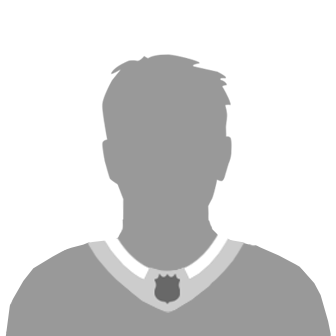
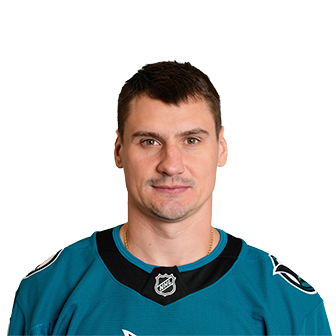
Update Sharks roster: add Sherwood, remove departed players, refresh headshots
- Add Kiefer Sherwood (#44, LW) to SHARKS_ROSTER with full player comps
  (acquired from Vancouver Jan 19, 2026)
- Add Collin Graf (#51) and Pavol Regenda (#84) to roster
- Remove 14 departed players: Granlund, Zetterlund, Ceci, Walman,
  Blackwood, Vanecek, Grundstrom, Sturm, Kostin, Vlasic, Thrun,
  Rutta, Leddy, Kunin
- Update nhl_rosters.json: move Sherwood from VAN to SJS
- Download Sherwood headshot, refresh 7 placeholder headshots with
  real images from NHL CDN
- Remove "Learn hockey through sports you know" subtitle from header

diff --git a/templates/index.html b/templates/index.html
@@ -3,7 +3,7 @@
 <head>
     <meta charset="UTF-8">
     <meta name="viewport" content="width=device-width, initial-scale=1.0">
-    <title>Hockey For Dummies | Learn Hockey Through Sports You Know</title>
+    <title>Hockey For Dummies</title>
     <style>
         * {
             margin: 0;
@@ -1611,7 +1611,6 @@
             <div class="scoreboard-header">
                 <div class="logo">🏒</div>
                 <h1>Hockey For Dummies</h1>
-                <p class="subtitle">Learn hockey through sports you know</p>
             </div>
         </header>
 

diff --git a/app.py b/app.py
@@ -216,21 +216,6 @@ SHARKS_ROSTER = {
         "nfl_comp": {"player": "Drake Maye", "why": "Top-5 pick expected to be a franchise building block"},
         "mlb_comp": {"player": "Paul Skenes", "why": "Top draft pick making an immediate impact"}
     },
-    "mikael granlund": {
-        "number": 64,
-        "position": "Center/Wing",
-        "age": 32,
-        "from": "Oulu, Finland",
-        "draft": "#9 Overall, 2010",
-        "role": "Veteran Leader",
-        "role_description": "Experienced Finnish forward who provides leadership and playoff experience. Mentors the young players while still producing offensively.",
-        "play_style": "Crafty playmaker with excellent hands. Smart positional player, good on the power play. Responsible defensively.",
-        "fun_fact": "Famous for scoring a lacrosse-style goal in international competition. Has played in two Olympics for Finland.",
-        "soccer_comp": {"player": "Luka Modric", "why": "Veteran playmaker who leads by example"},
-        "nba_comp": {"player": "Chris Paul", "why": "Veteran floor general mentoring young talent"},
-        "nfl_comp": {"player": "Aaron Rodgers", "why": "Experienced QB leading a young team"},
-        "mlb_comp": {"player": "Justin Verlander", "why": "Veteran presence guiding a rebuilding roster"}
-    },
     "tyler toffoli": {
         "number": 73,
         "position": "Right Wing",
@@ -245,21 +230,6 @@ SHARKS_ROSTER = {
         "nba_comp": {"player": "Klay Thompson", "why": "Championship-winning scorer who can still fill it up"},
         "nfl_comp": {"player": "Davante Adams", "why": "Veteran receiver with championship experience"},
         "mlb_comp": {"player": "Teoscar Hernandez", "why": "Veteran bat who provides pop in the lineup"}
-    },
-    "fabian zetterlund": {
-        "number": 20,
-        "position": "Right Wing",
-        "age": 25,
-        "from": "Stockholm, Sweden",
-        "draft": "#63 Overall, 2018",
-        "role": "Middle-Six Scorer",
-        "role_description": "Solid two-way winger who can chip in offensively while playing a responsible game. Brings energy every shift.",
-        "play_style": "Good shot, plays physical for his size, responsible in his own zone. Can play up and down the lineup.",
-        "fun_fact": "Originally drafted by New Jersey, acquired by Sharks in 2022. Fellow Swede with Eklund.",
-        "soccer_comp": {"player": "Jarrod Bowen", "why": "Hard-working winger who contributes on both ends"},
-        "nba_comp": {"player": "Donte DiVincenzo", "why": "Energy player who does a bit of everything"},
-        "nfl_comp": {"player": "Jaylen Waddle", "why": "Dynamic player who makes plays when given opportunities"},
-        "mlb_comp": {"player": "Bryan Reynolds", "why": "Solid all-around player, does everything well"}
     },
     "logan couture": {
         "number": 39,
@@ -291,66 +261,6 @@ SHARKS_ROSTER = {
         "nfl_comp": {"player": "Sauce Gardner", "why": "Lockdown defender who takes on the best"},
         "mlb_comp": {"player": "Matt Chapman", "why": "Elite defender at a premium position"}
     },
-    "cody ceci": {
-        "number": 4,
-        "position": "Defenseman",
-        "age": 30,
-        "from": "Ottawa, ON",
-        "draft": "#15 Overall, 2012",
-        "role": "Top-4 Defenseman",
-        "role_description": "Veteran defenseman who provides stability on the blue line. Plays a steady, reliable game.",
-        "play_style": "Right-shot defenseman, good size, moves the puck efficiently. Reliable if not spectacular.",
-        "fun_fact": "Has played for 5 NHL teams. Son of former OHL coach.",
-        "soccer_comp": {"player": "Gary Cahill", "why": "Experienced, steady defender"},
-        "nba_comp": {"player": "Al Horford", "why": "Veteran presence, does his job consistently"},
-        "nfl_comp": {"player": "James Bradberry", "why": "Reliable veteran corner"},
-        "mlb_comp": {"player": "Paul DeJong", "why": "Veteran middle infielder providing depth"}
-    },
-    "jake walman": {
-        "number": 96,
-        "position": "Defenseman",
-        "age": 28,
-        "from": "Toronto, ON",
-        "draft": "#82 Overall, 2014",
-        "role": "Offensive Defenseman",
-        "role_description": "Puck-moving defenseman who adds offense from the blue line. Can quarterback a power play.",
-        "play_style": "Good skater with offensive instincts. Has a good shot from the point. Still developing his defensive consistency.",
-        "fun_fact": "Broke out with Detroit before being traded to San Jose.",
-        "soccer_comp": {"player": "Trent Alexander-Arnold", "why": "Attack-minded defender who creates offense"},
-        "nba_comp": {"player": "Draymond Green", "why": "Defender who can run the offense"},
-        "nfl_comp": {"player": "Micah Parsons", "why": "Dynamic defender with playmaking ability"},
-        "mlb_comp": {"player": "Gunnar Henderson", "why": "Defender with offensive pop"}
-    },
-    "mackenzie blackwood": {
-        "number": 29,
-        "position": "Goaltender",
-        "age": 27,
-        "from": "Thunder Bay, ON",
-        "draft": "#42 Overall, 2015",
-        "role": "Starting Goaltender",
-        "role_description": "The Sharks' number one netminder. A talented goalie who can steal games when he's on his game.",
-        "play_style": "Athletic, good size (6'4\"), tracks the puck well. Can be streaky but capable of elite performances.",
-        "fun_fact": "Acquired from New Jersey. Named after former NHL goalie Kirk McLean (his parents were fans).",
-        "soccer_comp": {"player": "David Raya", "why": "Athletic goalkeeper who can make spectacular saves"},
-        "nba_comp": {"player": "Brook Lopez", "why": "Solid presence protecting the paint"},
-        "nfl_comp": {"player": "Geno Smith", "why": "Veteran who's found a home and playing well"},
-        "mlb_comp": {"player": "Sonny Gray", "why": "Talented arm who can dominate when locked in"}
-    },
-    "vitek vanecek": {
-        "number": 41,
-        "position": "Goaltender",
-        "age": 28,
-        "from": "Havlickuv Brod, Czech Republic",
-        "draft": "#39 Overall, 2014",
-        "role": "Backup Goaltender",
-        "role_description": "Experienced backup who provides rest for Blackwood and can win games when called upon.",
-        "play_style": "Positionally sound, good athleticism. Has starting experience in the league.",
-        "fun_fact": "Has played for Washington and New Jersey before San Jose. Czech international.",
-        "soccer_comp": {"player": "Aaron Ramsdale", "why": "Quality backup pushing for playing time"},
-        "nba_comp": {"player": "Daniel Theis", "why": "Reliable backup center who can start if needed"},
-        "nfl_comp": {"player": "Cooper Rush", "why": "Quality backup who's proven he can win games"},
-        "mlb_comp": {"player": "Ross Stripling", "why": "Swing pitcher who can start or relieve"}
-    },
     "timothy liljegren": {
         "number": 37,
         "position": "Defenseman",
@@ -380,36 +290,6 @@ SHARKS_ROSTER = {
         "nba_comp": {"player": "Alex Caruso", "why": "Hustle player who does the little things"},
         "nfl_comp": {"player": "Rex Burkhead", "why": "Versatile player who does whatever's needed"},
         "mlb_comp": {"player": "Nick Ahmed", "why": "Glue guy who plays solid defense"}
-    },
-    "luke kunin": {
-        "number": 11,
-        "position": "Right Wing",
-        "age": 27,
-        "from": "Chesterfield, MO",
-        "draft": "#15 Overall, 2016",
-        "role": "Bottom-Six Forward",
-        "role_description": "Physical forward who brings energy and can chip in offense. Good penalty killer.",
-        "play_style": "Plays with an edge, willing to go to the hard areas. Can score but primarily a grinder.",
-        "fun_fact": "American-born, played at University of Wisconsin. Former first-round pick.",
-        "soccer_comp": {"player": "Adam Lallana", "why": "Works hard, brings energy, occasional goals"},
-        "nba_comp": {"player": "P.J. Tucker", "why": "Hustle player who does the dirty work"},
-        "nfl_comp": {"player": "Taysom Hill", "why": "Versatile player who brings energy"},
-        "mlb_comp": {"player": "Kiké Hernandez", "why": "Utility player who fills in where needed"}
-    },
-    "carl grundstrom": {
-        "number": 91,
-        "position": "Left Wing",
-        "age": 27,
-        "from": "Stockholm, Sweden",
-        "draft": "#57 Overall, 2016",
-        "role": "Bottom-Six Forward",
-        "role_description": "Physical forward who brings sandpaper to the lineup. Plays a heavy game.",
-        "play_style": "Physical, hits everything that moves. Forechecks hard. Limited offensive upside but valuable role player.",
-        "fun_fact": "Originally drafted by Toronto, won a Calder Cup (AHL championship) with Ontario Reign.",
-        "soccer_comp": {"player": "James Milner", "why": "Does the dirty work, never complains"},
-        "nba_comp": {"player": "Patrick Beverley", "why": "Pest who opponents hate to play against"},
-        "nfl_comp": {"player": "Cordarrelle Patterson", "why": "Does multiple jobs, special teams ace"},
-        "mlb_comp": {"player": "Tommy Edman", "why": "Role player who does whatever's asked"}
     },
     "barclay goodrow": {
         "number": 23,
@@ -441,66 +321,6 @@ SHARKS_ROSTER = {
         "nfl_comp": {"player": "Zach Wilson", "why": "Former high pick finding his role"},
         "mlb_comp": {"player": "Tommy Edman", "why": "Versatile veteran who fills any role needed"}
     },
-    "nico sturm": {
-        "number": 7,
-        "position": "Center",
-        "age": 29,
-        "from": "Augsburg, Germany",
-        "draft": "Undrafted",
-        "role": "Fourth-Line Center",
-        "role_description": "Physical German center who brings energy and grit. Excellent penalty killer and faceoff specialist.",
-        "play_style": "Physical presence, wins battles along the boards, strong on faceoffs. Plays a heavy, grinding style.",
-        "fun_fact": "One of only a few German players in the NHL. Played college hockey at Clarkson University.",
-        "soccer_comp": {"player": "Joshua Kimmich", "why": "German workhorse who does the dirty work"},
-        "nba_comp": {"player": "Marcus Smart", "why": "Defensive-minded player who brings toughness"},
-        "nfl_comp": {"player": "Zach Line", "why": "Fullback type - does the grunt work"},
-        "mlb_comp": {"player": "Max Stassi", "why": "Defense-first player who contributes intangibles"}
-    },
-    "klim kostin": {
-        "number": 21,
-        "position": "Right Wing",
-        "age": 25,
-        "from": "Penza, Russia",
-        "draft": "#31 Overall, 2017",
-        "role": "Power Forward",
-        "role_description": "Big-bodied Russian winger with skill. Uses his size to protect the puck and create offense.",
-        "play_style": "Physical player with soft hands. Protects the puck well, crashes the net, has a good shot.",
-        "fun_fact": "Former first-round pick by St. Louis. Played in the KHL before coming to North America.",
-        "soccer_comp": {"player": "Romelu Lukaku", "why": "Big, physical forward who uses his body"},
-        "nba_comp": {"player": "Zion Williamson", "why": "Power player who overwhelms with physicality"},
-        "nfl_comp": {"player": "Derrick Henry", "why": "Power runner who punishes defenders"},
-        "mlb_comp": {"player": "Yordan Alvarez", "why": "Big bat who drives in runs"}
-    },
-    "marc-edouard vlasic": {
-        "number": 44,
-        "position": "Defenseman",
-        "age": 37,
-        "from": "Montreal, QC",
-        "draft": "#35 Overall, 2005",
-        "role": "Veteran Defenseman",
-        "role_description": "Long-time Sharks defenseman and franchise icon. While no longer the shutdown force he once was, brings experience and leadership.",
-        "play_style": "In his prime was one of the best shutdown defensemen in the NHL. Smart positioning, excellent stick work.",
-        "fun_fact": "Three-time Olympic gold medalist for Canada. One of the longest-tenured Sharks ever.",
-        "soccer_comp": {"player": "Thiago Silva", "why": "Veteran defender who's been a cornerstone for years"},
-        "nba_comp": {"player": "Al Horford", "why": "Veteran big man still contributing"},
-        "nfl_comp": {"player": "Andrew Whitworth", "why": "Veteran tackle winding down a great career"},
-        "mlb_comp": {"player": "Yadier Molina", "why": "Franchise legend in the twilight years"}
-    },
-    "henry thrun": {
-        "number": 3,
-        "position": "Defenseman",
-        "age": 24,
-        "from": "Southborough, MA",
-        "draft": "#101 Overall, 2019",
-        "role": "Young Defenseman",
-        "role_description": "Left-shot defenseman developing his NHL game. Mobile skater who moves the puck well.",
-        "play_style": "Good skating defenseman, moves the puck efficiently. Still learning to defend at the NHL level.",
-        "fun_fact": "Played at Harvard University before turning pro. Massachusetts native.",
-        "soccer_comp": {"player": "Marc Cucurella", "why": "Left-footed defender with good mobility"},
-        "nba_comp": {"player": "Ayo Dosunmu", "why": "Young player carving out his role"},
-        "nfl_comp": {"player": "Aidan Hutchinson", "why": "Young defender learning at the pro level"},
-        "mlb_comp": {"player": "Brendan Rodgers", "why": "Young infielder developing his game"}
-    },
     "shakir mukhamadullin": {
         "number": 54,
         "position": "Defenseman",
@@ -530,21 +350,6 @@ SHARKS_ROSTER = {
         "nba_comp": {"player": "Victor Wembanyama", "why": "Generational prospect at his position"},
         "nfl_comp": {"player": "Bryce Young", "why": "Top prospect expected to be a franchise player"},
         "mlb_comp": {"player": "Jackson Holliday", "why": "Elite prospect with superstar upside"}
-    },
-    "jan rutta": {
-        "number": 18,
-        "position": "Defenseman",
-        "age": 34,
-        "from": "Pisek, Czech Republic",
-        "draft": "Undrafted",
-        "role": "Depth Defenseman",
-        "role_description": "Veteran Czech defenseman who provides stability and experience. Physical, stay-at-home defender.",
-        "play_style": "Physical, shot-blocking defenseman. Plays a simple, effective game. Good penalty killer.",
-        "fun_fact": "Two-time Stanley Cup champion with Tampa Bay. Late bloomer who didn't reach NHL until age 27.",
-        "soccer_comp": {"player": "Petr Cech", "why": "Czech veteran who's won championships"},
-        "nba_comp": {"player": "Jeff Green", "why": "Veteran journeyman who knows how to win"},
-        "nfl_comp": {"player": "Mike Hilton", "why": "Physical defender with championship pedigree"},
-        "mlb_comp": {"player": "Chris Taylor", "why": "Veteran role player with playoff experience"}
     },
     "jeff skinner": {
         "number": 53,
@@ -576,6 +381,21 @@ SHARKS_ROSTER = {
         "nfl_comp": {"player": "Vontaze Burfict", "why": "Intimidating physical presence"},
         "mlb_comp": {"player": "AJ Pierzynski", "why": "Tough veteran who opponents hate to face"}
     },
+    "kiefer sherwood": {
+        "number": 44,
+        "position": "Left Wing",
+        "age": 30,
+        "from": "Columbus, OH",
+        "draft": "Undrafted",
+        "role": "Physical Scorer",
+        "role_description": "An undrafted grinder who became one of the NHL's most feared physical forwards. Sherwood set an NHL single-season record with 462 hits in 2024-25 while also scoring 19 goals. Acquired from Vancouver in January 2026 to add toughness and scoring to the Sharks' top six.",
+        "play_style": "Relentless forechecking, bone-crushing hits, and a surprisingly dangerous shot. Plays fast, physical, and disciplined — leads the league in hits without racking up penalty minutes. Hard to play against mentally and physically.",
+        "fun_fact": "Half-Japanese heritage — his mother Yuko is Japanese. Grew up idolizing Hall of Famer Paul Kariya. His brother Kole has also played in the NHL. Went undrafted and worked his way through 5 NHL teams to become a top-line winger.",
+        "soccer_comp": {"player": "Jamie Vardy", "why": "Ultimate underdog — played semi-pro and worked his way up to Premier League champion. Same energy as an undrafted player setting NHL hit records."},
+        "nba_comp": {"player": "PJ Tucker", "why": "Undrafted, went overseas, came back and became an invaluable tough, physical culture-setter"},
+        "nfl_comp": {"player": "James Harrison", "why": "Undrafted and undersized, became one of the most feared hitters in the league through sheer work ethic"},
+        "mlb_comp": {"player": "Ben Zobrist", "why": "Late-round pick who carved out a long career through grit and adaptability, eventually becoming a key contributor"}
+    },
     "dmitry orlov": {
         "number": 9,
         "position": "Defenseman",
@@ -605,21 +425,6 @@ SHARKS_ROSTER = {
         "nba_comp": {"player": "Draymond Green", "why": "Playmaking defender who runs the offense"},
         "nfl_comp": {"player": "Quenton Nelson", "why": "Elite at creating opportunities"},
         "mlb_comp": {"player": "Xander Bogaerts", "why": "Shortstop with an offensive edge"}
-    },
-    "nick leddy": {
-        "number": 4,
-        "position": "Defenseman",
-        "age": 33,
-        "from": "Eden Prairie, MN",
-        "draft": "#16 Overall, 2009",
-        "role": "Veteran Defenseman",
-        "role_description": "Experienced skating defenseman. Stanley Cup champion who brings poise and mobility.",
-        "play_style": "Elite skater, good puck mover. Uses speed to break up plays and start rushes.",
-        "fun_fact": "Won the Stanley Cup with Chicago in 2013 and 2015. American Olympian.",
-        "soccer_comp": {"player": "Jordi Alba", "why": "Speedy defender known for getting forward"},
-        "nba_comp": {"player": "Nic Claxton", "why": "Athletic defender who covers ground"},
-        "nfl_comp": {"player": "Taron Johnson", "why": "Quick, athletic defender"},
-        "mlb_comp": {"player": "Jose Iglesias", "why": "Veteran with great range in the field"}
     },
     "alex nedeljkovic": {
         "number": 33,
@@ -725,6 +530,36 @@ SHARKS_ROSTER = {
         "nba_comp": {"player": "Cooper Flagg", "why": "Generational prospect everyone is excited about"},
         "nfl_comp": {"player": "Arch Manning", "why": "Elite prospect with unlimited ceiling"},
         "mlb_comp": {"player": "Travis Bazzana", "why": "Top prospect with elite tools"}
+    },
+    "collin graf": {
+        "number": 51,
+        "position": "Right Wing",
+        "age": 22,
+        "from": "Briarcliff Manor, NY",
+        "draft": "Undrafted",
+        "role": "Energy Forward",
+        "role_description": "Undrafted college free agent from Boston University who earned a roster spot through hard work and physicality. Brings energy and competitiveness every shift.",
+        "play_style": "Physical, hard-nosed winger who plays bigger than his size. Forechecks hard, finishes checks, and can chip in offensively.",
+        "fun_fact": "Signed as an undrafted free agent out of BU. Made the opening night roster as a rookie through sheer effort in training camp.",
+        "soccer_comp": {"player": "Alexis Mac Allister", "why": "Unheralded talent who earned his spot through relentless work"},
+        "nba_comp": {"player": "Alex Caruso", "why": "Undrafted hustle player who became a fan favorite through energy and effort"},
+        "nfl_comp": {"player": "Amon-Ra St. Brown", "why": "Overlooked prospect who plays with a chip on his shoulder"},
+        "mlb_comp": {"player": "Steven Kwan", "why": "Under-the-radar talent who makes the most of every opportunity"}
+    },
+    "pavol regenda": {
+        "number": 84,
+        "position": "Left Wing",
+        "age": 24,
+        "from": "Kosice, Slovakia",
+        "draft": "#204 Overall, 2020",
+        "role": "Skilled Depth Forward",
+        "role_description": "Slovak winger with good speed and skill. Late-round pick developing into a reliable NHL contributor with offensive upside.",
+        "play_style": "Quick skater with good hands and a nose for the net. Uses his speed to create turnovers and generate scoring chances.",
+        "fun_fact": "Represented Slovakia at the World Championships. Taken in the 7th round — one of the last picks in his draft class to make the NHL.",
+        "soccer_comp": {"player": "Hakan Calhanoglu", "why": "Skilled playmaker from a smaller hockey nation"},
+        "nba_comp": {"player": "Dillon Brooks", "why": "Late pick who carved out a real role through competitiveness"},
+        "nfl_comp": {"player": "Brock Purdy", "why": "Last pick in the draft who proved everyone wrong"},
+        "mlb_comp": {"player": "Bryan Reynolds", "why": "Under-the-radar talent who developed into a consistent contributor"}
     }
 }
 
